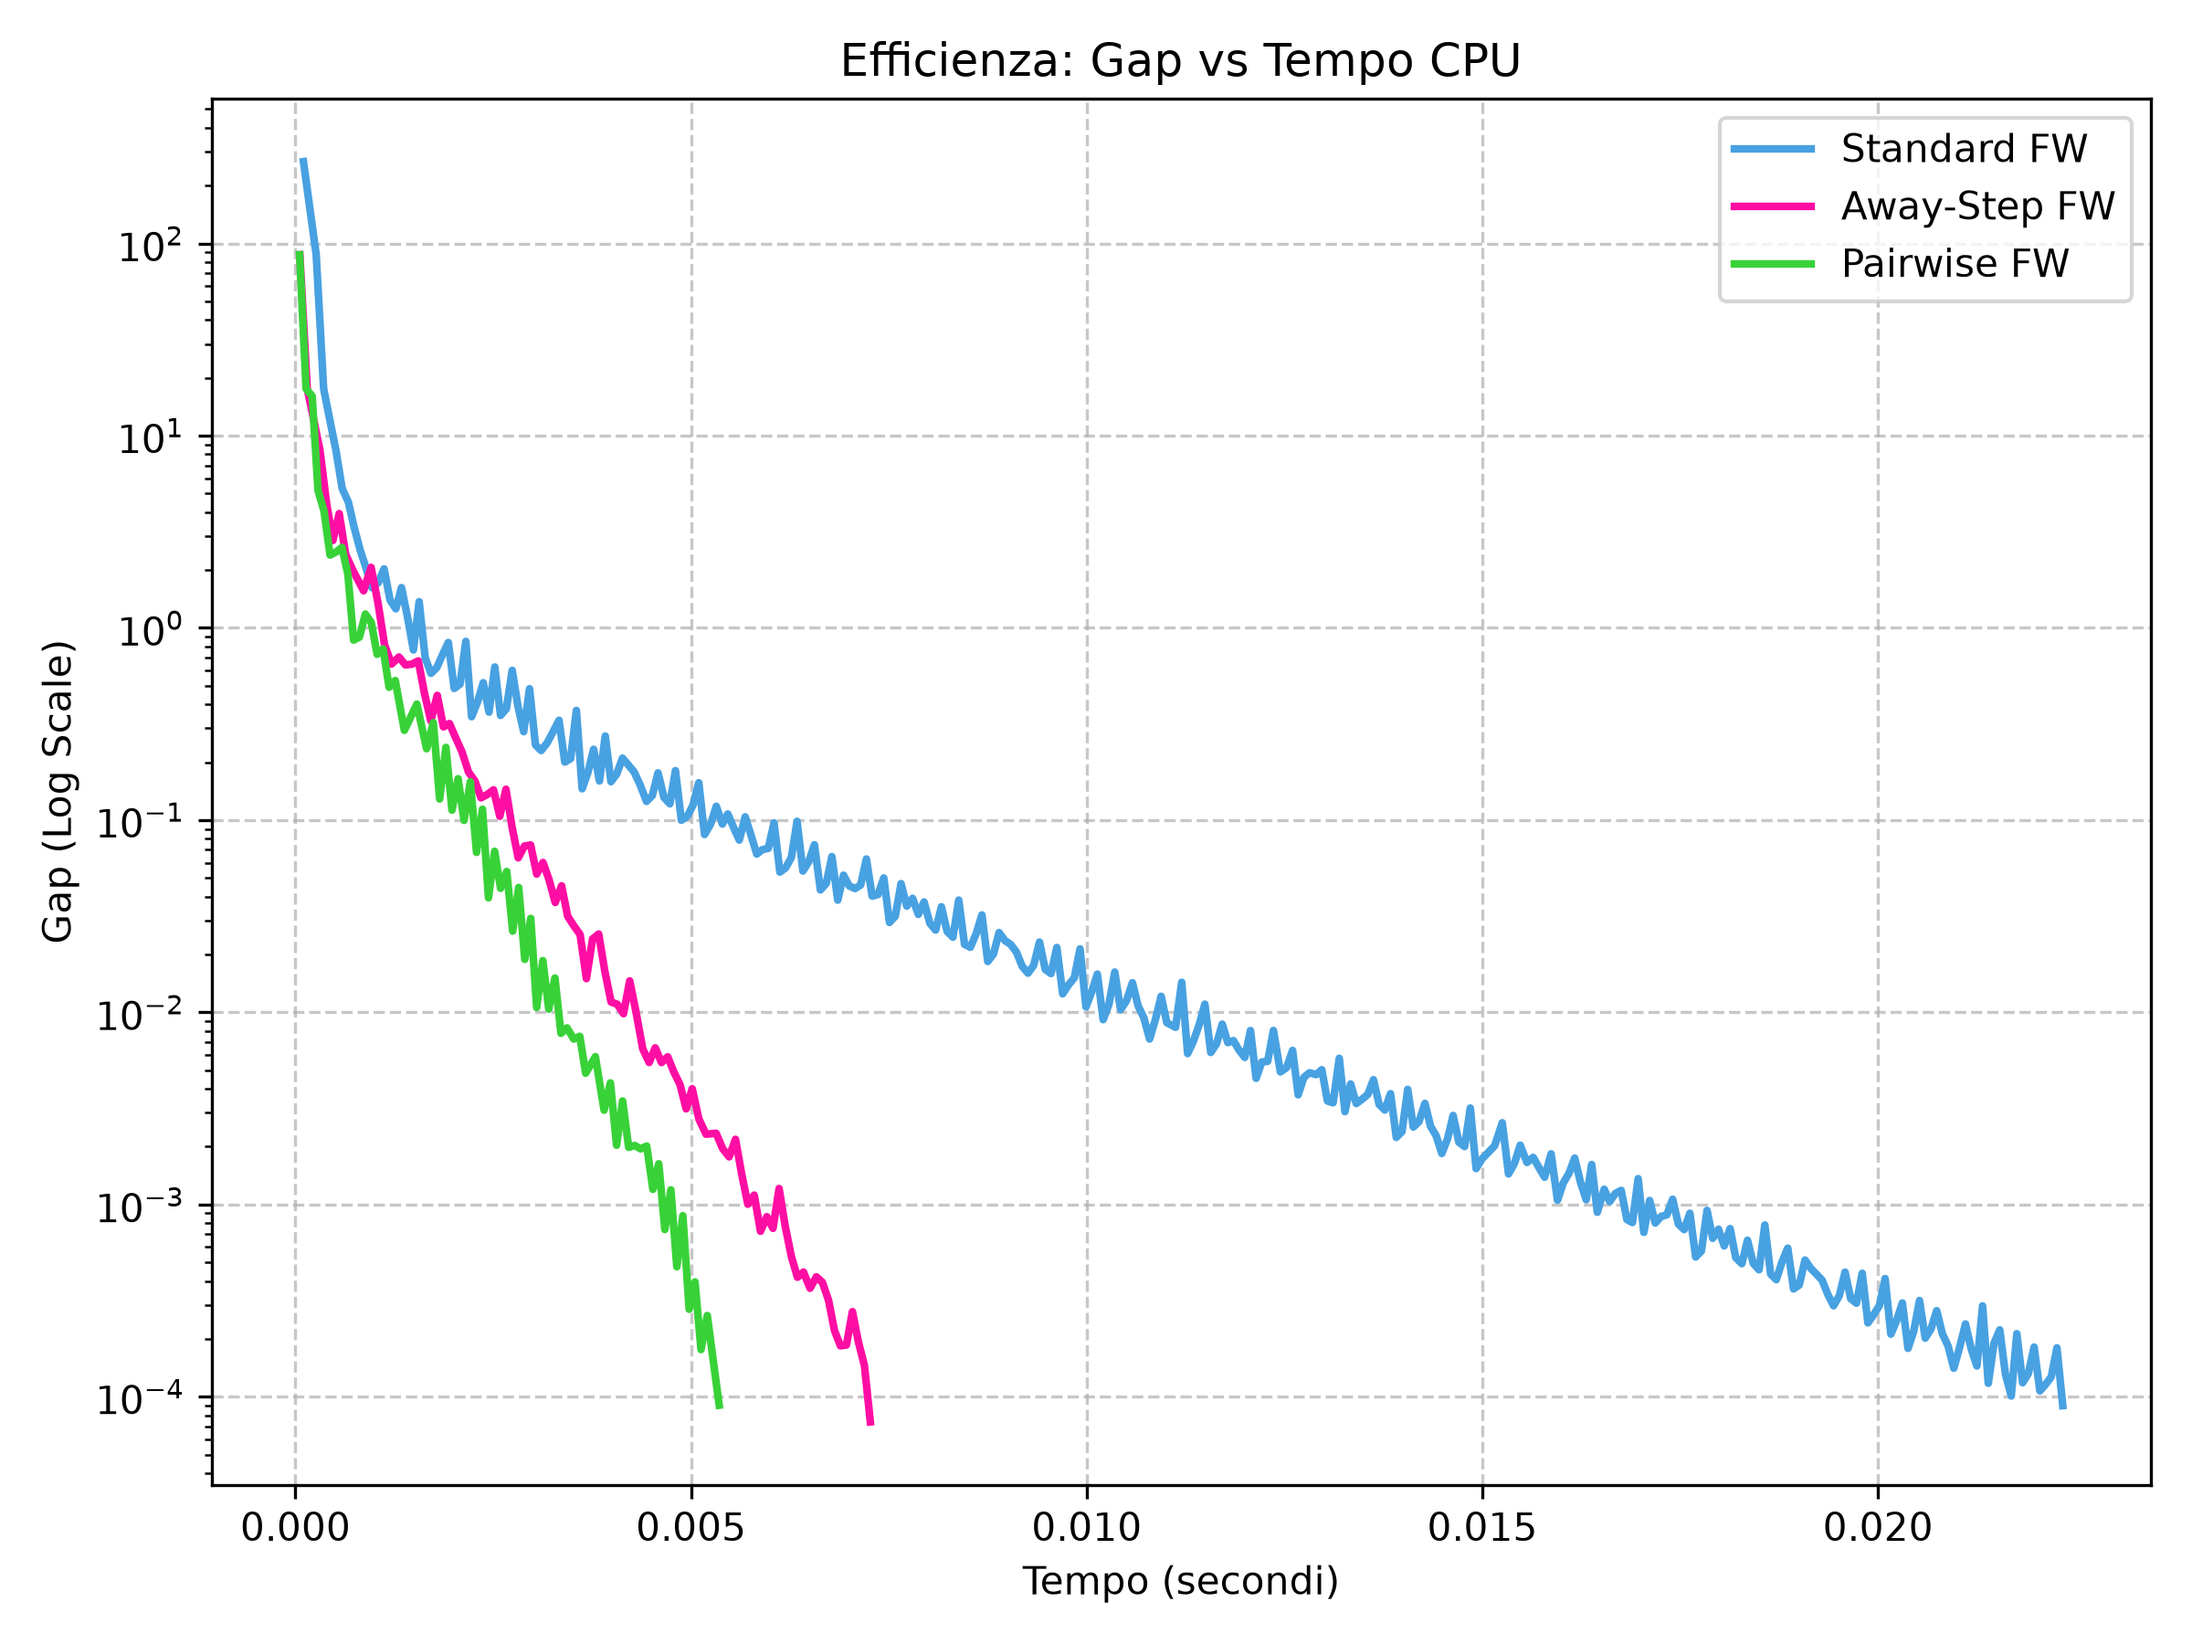
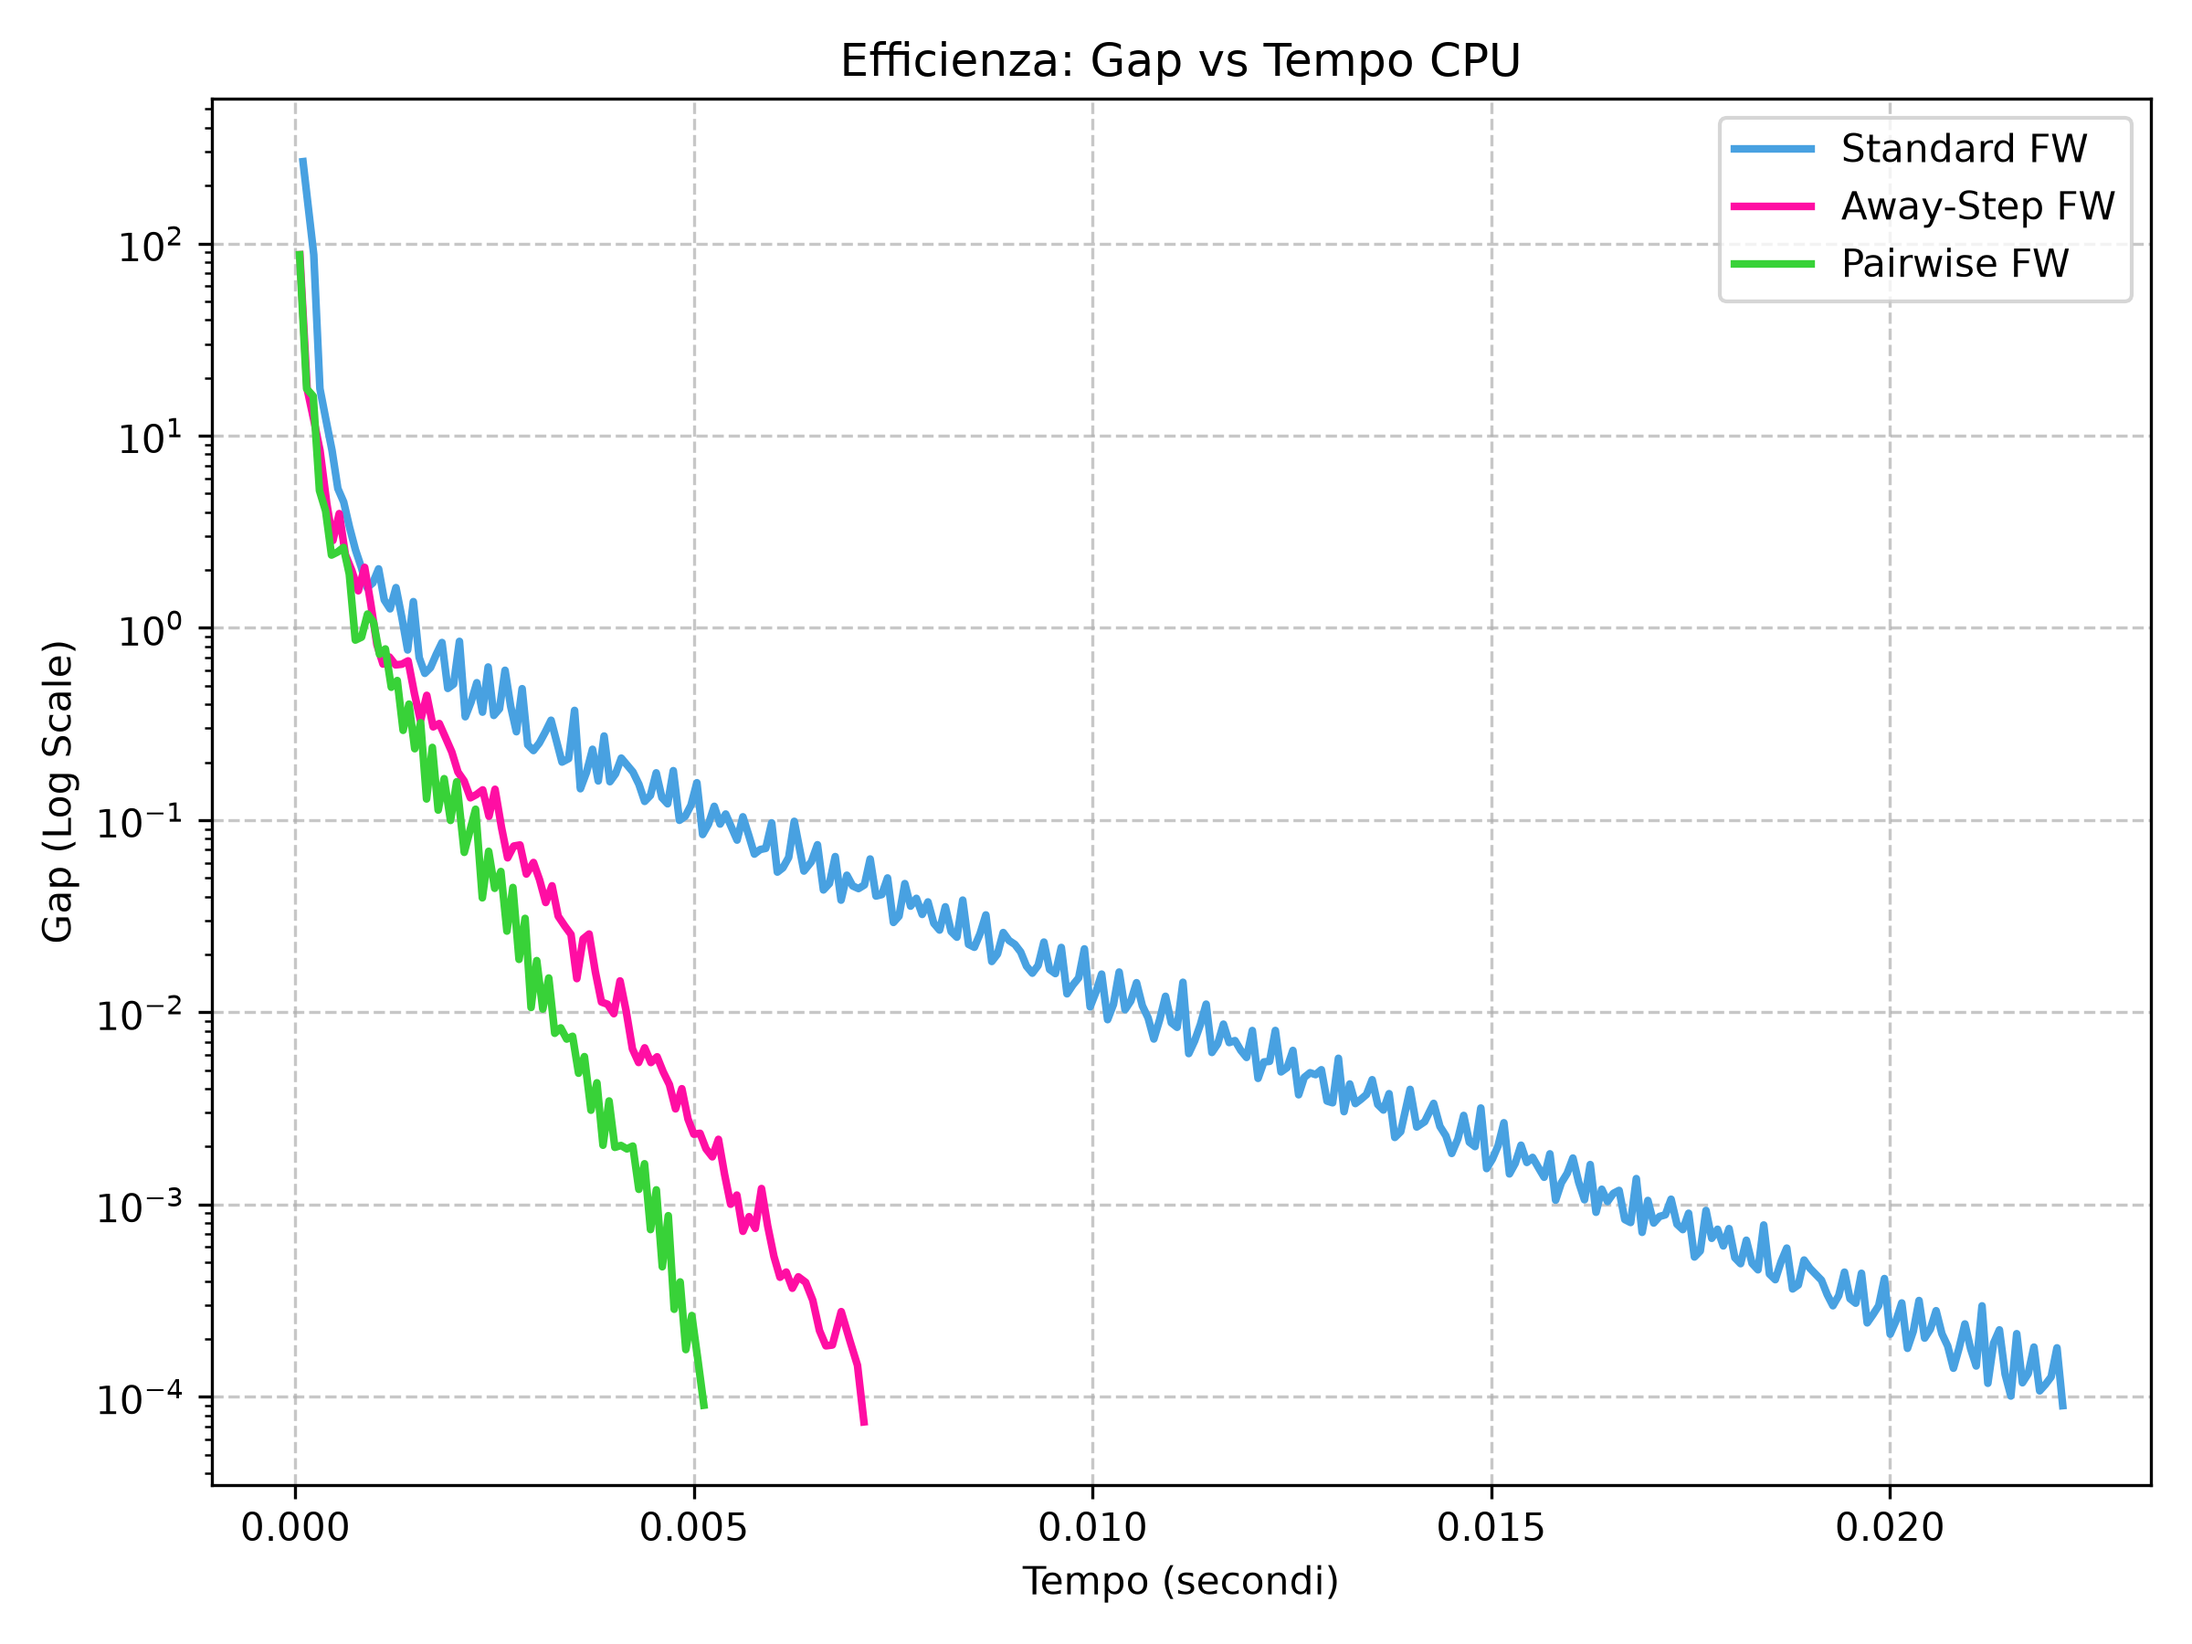
modifche minori a wiki

diff --git a/1_wiki.py b/1_wiki.py
@@ -285,9 +285,9 @@ def away_steps_fw_lasso(X, y, tau, max_iters=1000, tolerance=1e-4):
             del weights[key]
 
     # NORMALIZZAZIONE FINALE 
-    somma = sum(weights.values())
-    for key in weights.keys():
-        weights[key] /= somma
+    # somma = sum(weights.values())
+    # for key in weights.keys():
+    #     weights[key] /= somma
 
     cpu_time = time() - t0
     return x, history_loss, history_gap, history_time, history_sparsity
@@ -317,9 +317,9 @@ def pairwise_fw_lasso(X, y, tau, max_iters=1000, tolerance=1e-4):
 
     for k in range(max_iters):
         # 1. Normalizzazione di sicurezza
-        somma = sum(weights.values())
-        for key in weights.keys():
-            weights[key] /= somma
+        # somma = sum(weights.values())
+        # for key in weights.keys():
+        #     weights[key] /= somma
 
         grad = compute_gradient(X, y, x)
         history_loss.append(compute_loss(X, y, x))
